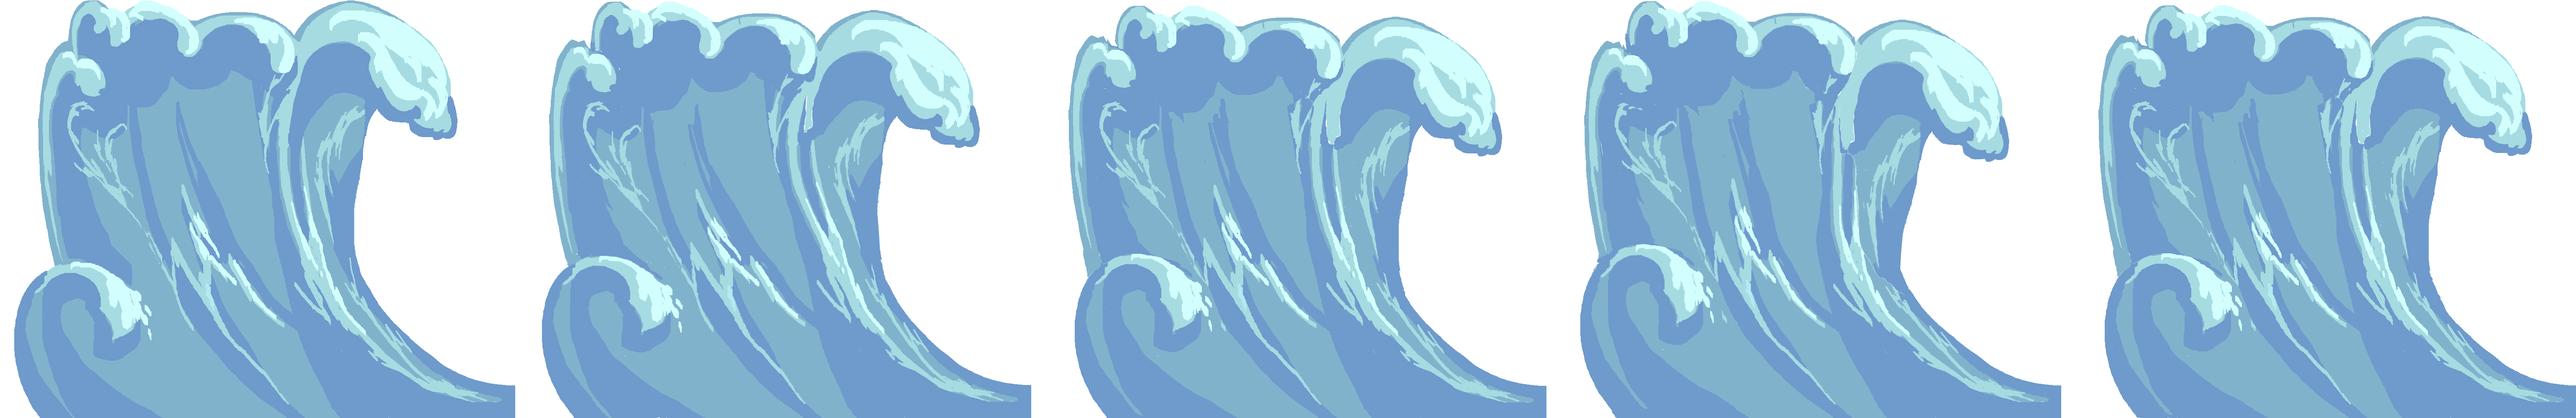
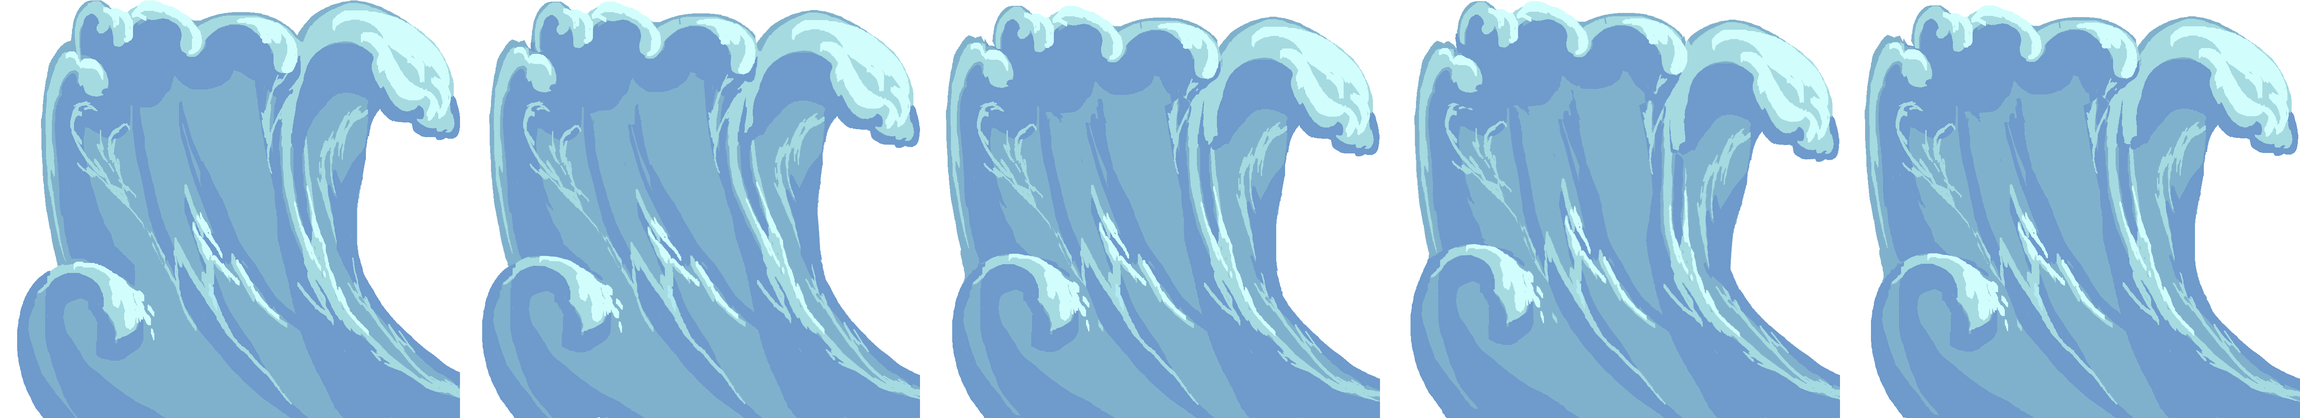
Fix #13, close #12

Changed region(s): [[0.0, 0.0, 1.0, 0.961], [0.0, 0.992, 0.0311, 1.0]]

diff --git a/js/game.js b/js/game.js
@@ -11,12 +11,15 @@ function preload() {
 	game.load.image('kenney', './img/kenney.png');
 	game.load.image('background', './img/background.png');
 	game.load.spritesheet('dude', './img/pilot_animation.png', 100, 100);
-	game.load.spritesheet('wave', './img/wave.png', 1232, 1000);
+	game.load.spritesheet('wave', './img/wave.png', 1100, 1000);
 	game.load.image('menu', './img/buttons.png', 270, 180);
+
+	game.load.spritesheet('nothlights', './img/nothlights.png', 500, 300);
 
 }
 
 var player, background;
+var nothlights = [];
 var facing = 'left';
 var isTap = false;
 var jumpTimer = 0;
@@ -28,6 +31,7 @@ var PI3 = PI/3;
 var PI4 = PI/4;
 var PI5 = PI/30;
 var oldSpeed = 0;
+var waveSpeed;
 
 var onGround = false;
 
@@ -56,6 +60,7 @@ function create() {
 	facing = 'left';
 	isTap = false;
 	jumpTimer = 0;
+	jumpTime=0;
 	startTime=0; 
 
 	/*
@@ -70,7 +75,14 @@ function create() {
 	if (endType == 'die' || endType == ''){
 		score = 0;
 		oldSpeed = 0;
-		jumpTime=0;
+		waveSpeed = 115;
+	}
+
+	nothlights.length = 0;
+	for (var i=0; i<13; i++){
+		nothlights.push(game.add.sprite(10000*i+Math.ceil(Math.random()*1000), Math.ceil(Math.random()*50), 'nothlights'));
+		nothlights[i].animations.add('nothlights', [0, 1, 2, 3, 4], 10, true);
+		nothlights[i].animations.play('nothlights');
 	}
 
 
@@ -225,6 +237,7 @@ function create() {
 
 	if (endType == 'win'){
 		player.body.velocity.x = oldSpeed;
+		waveSpeed+=10;
 	}
 	else{
 		player.body.velocity.x = 30;
@@ -261,7 +274,7 @@ function update() {
 		}
 	}
 	startTime = player.body.x;
-	wave.body.force.x = 120;
+	wave.body.force.x = waveSpeed;
 
 	forceVector = player.body.velocity.y * player.body.velocity.x;
 	rotation = player.body.rotation%PI;
@@ -354,7 +367,7 @@ function blockHit (body, bodyB, shapeA, shapeB, equation) {
 			onGround = true; 
 			inTerrain++;
 			if (jumpTime!=0){
-				score += (player.body.x - jumpTime)/10;
+				score += (player.body.x - jumpTime)/25;
 				jumpTime = 0;
 				scoreLabel.setText(Math.ceil(score));
 				jumpTimer = 0;
